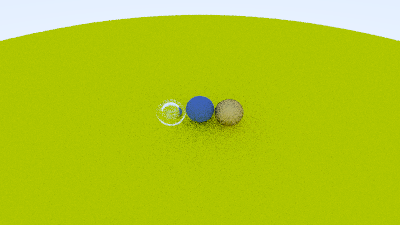
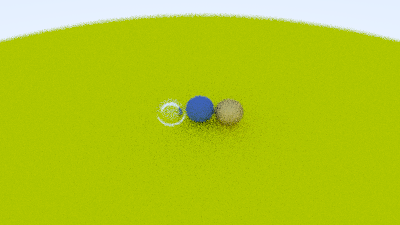
depth of field

Changed region(s): [[0.0, 0.0311, 1.0, 0.1867], [0.39, 0.4356, 0.63, 0.6222], [0.48, 0.4044, 0.51, 0.4356]]

diff --git a/src/image.rs b/src/image.rs
@@ -11,7 +11,6 @@ use vector::{Color, Vector};
 pub struct Camera {
     viewport_width: f64,
     viewport_height: f64,
-    focal_length: f64,
     center: Vector,
     viewport_u: Vector,
     viewport_v: Vector,
@@ -29,6 +28,10 @@ pub struct Camera {
     u: Vector,
     v: Vector,
     w: Vector,
+    defocus_angle: f64,
+    focus_dist: f64,
+    defocus_disk_u : Vector,
+    defocus_dish_v : Vector,
 }
 
 impl Camera {
@@ -41,12 +44,13 @@ impl Camera {
         lookfrom: Vector,
         lookat: Vector,
         vup: Vector,
+        defocus_angle: f64,
+        focus_dist: f64
     ) -> Self {
         let center = lookfrom;
-        let focal_length = (lookfrom - lookat).len();
         let theta = util::degree_to_radians(vfov);
         let h = f64::tan(theta / 2.0);
-        let viewport_height = 2.0 * h * focal_length;
+        let viewport_height = 2.0 * h * focus_dist;
         let viewport_width = viewport_height * image_width / image_height;
         let w = (lookfrom - lookat).unit_vector();
         let u = vup.cross(w).unit_vector();
@@ -55,12 +59,14 @@ impl Camera {
         let viewport_v = -viewport_height * v;
         let pixel_delta_u = viewport_u / image_width;
         let pixel_delta_v = viewport_v / image_height;
-        let viewport_upper_left = center - (focal_length * w) - viewport_u / 2.0 - viewport_v / 2.0;
+        let viewport_upper_left = center - (focus_dist * w) - viewport_u / 2.0 - viewport_v / 2.0;
         let pixel00_loc = viewport_upper_left + 0.5 * (pixel_delta_u + pixel_delta_v);
+        let defocus_radius = focus_dist * f64::tan(util::degree_to_radians(defocus_angle/2.0));
+        let defocus_disk_u = u * defocus_radius;
+        let defocus_dish_v = v * defocus_radius;
         Self {
             viewport_height: viewport_height,
             viewport_width: viewport_width,
-            focal_length: focal_length,
             center: center,
             viewport_u: viewport_u,
             viewport_v: viewport_v,
@@ -78,6 +84,10 @@ impl Camera {
             w: w,
             u: u,
             v: v,
+            defocus_angle: defocus_angle,
+            focus_dist: focus_dist,
+            defocus_disk_u: defocus_disk_u,
+            defocus_dish_v: defocus_dish_v,
         }
     }
 
@@ -86,15 +96,21 @@ impl Camera {
         let pixel_sample = self.pixel00_loc
             + (idx_width as f64 + offset.x) * self.pixel_delta_u
             + (idx_height as f64 + offset.y) * self.pixel_delta_v;
-        Ray::new(self.center, pixel_sample - self.center)
+        let ray_origin = if self.defocus_angle <= 0.0 {
+            self.center
+        } else {
+            self.defocus_disk_sample()
+        };
+        Ray::new(ray_origin, pixel_sample - ray_origin)
+    }
+
+    fn defocus_disk_sample(&self) -> Vector {
+        let p = Vector::random_in_unit_disk();
+        self.center + self.defocus_disk_u * p.x + self.defocus_dish_v * p.y
     }
 
     fn sample_square() -> Vector {
-        Vector {
-            x: util::random() - 0.5,
-            y: util::random() - 0.5,
-            z: 0.0,
-        }
+        Vector::new(util::random() - 0.5,util::random() - 0.5,0.0)
     }
 }
 
@@ -123,6 +139,8 @@ impl Image {
                 Vector::new(0.0, 5.0, 5.0),
                 Vector::new(0.0, 0.0, -1.0),
                 Vector::new(0.0, 1.0, 0.0),
+                2.0,
+                10.0,
             ),
             buffer: ImageBuffer::new(image_width, image_height),
             world: HittableObjects::new(),

diff --git a/src/image/vector.rs b/src/image/vector.rs
@@ -72,6 +72,17 @@ impl Vector {
         }
     }
 
+    pub fn random_in_unit_disk() -> Self{
+        loop {
+            let mut vector = Vector::random_interval(Interval::from(-1.0,1.0));
+            vector.z = 0.0;
+            if vector.len_squared() < 1.0 {
+                return vector;
+            }
+
+        }
+    }
+
     pub fn near_zero(&self) -> bool {
         let ep: f64 = 1e-8;
         self.x.abs() < ep && self.y.abs() < ep && self.z.abs() < ep
@@ -87,6 +98,7 @@ impl Vector {
         let ray_out_parallel = -1.0 * (1.0 - ray_out_perp.len_squared()).abs().sqrt() * normal;
         ray_out_perp + ray_out_parallel
     }
+
 }
 
 impl Add for Vector {
